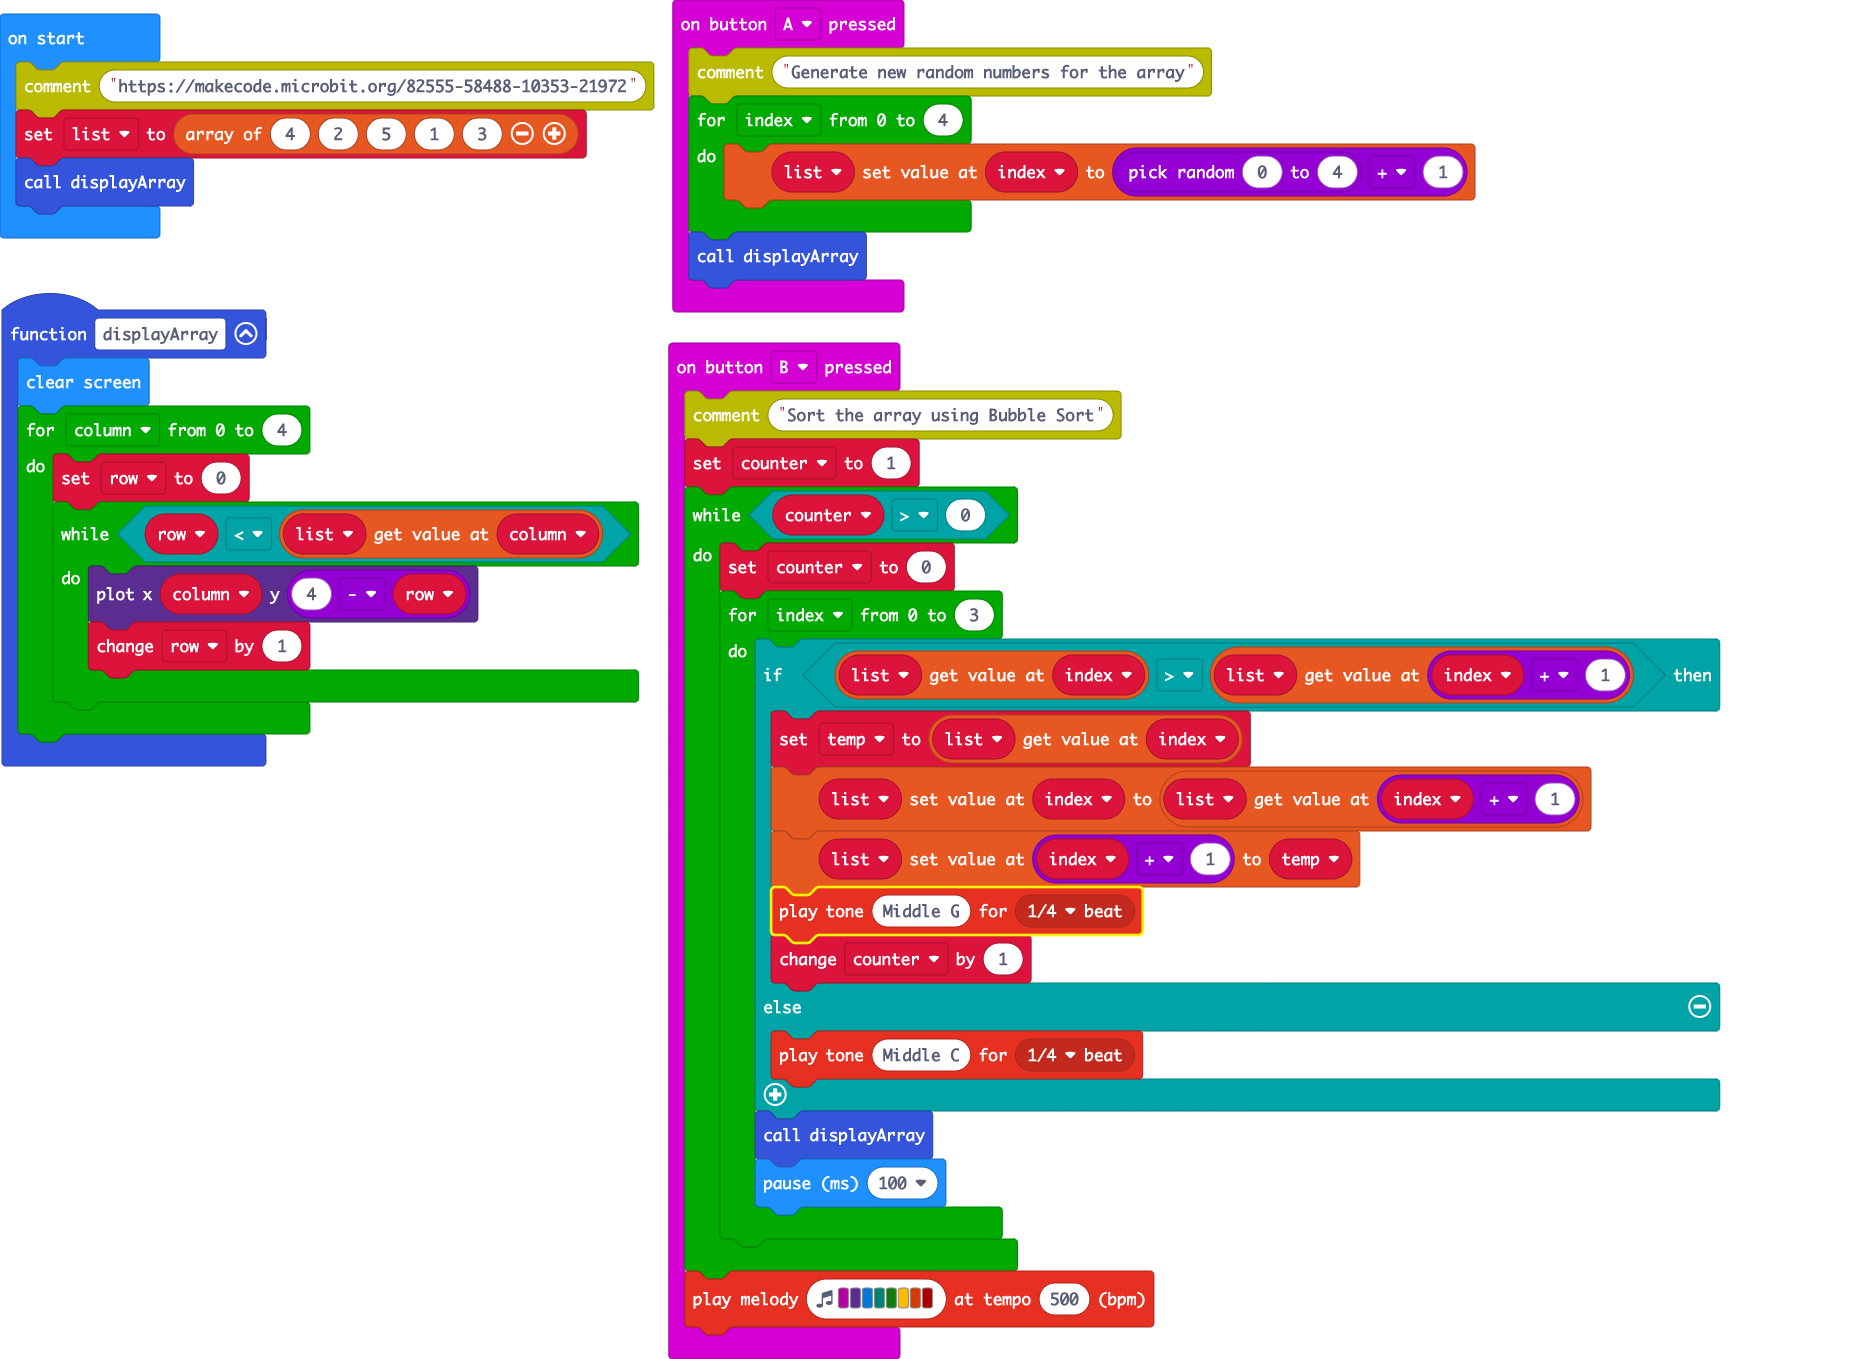
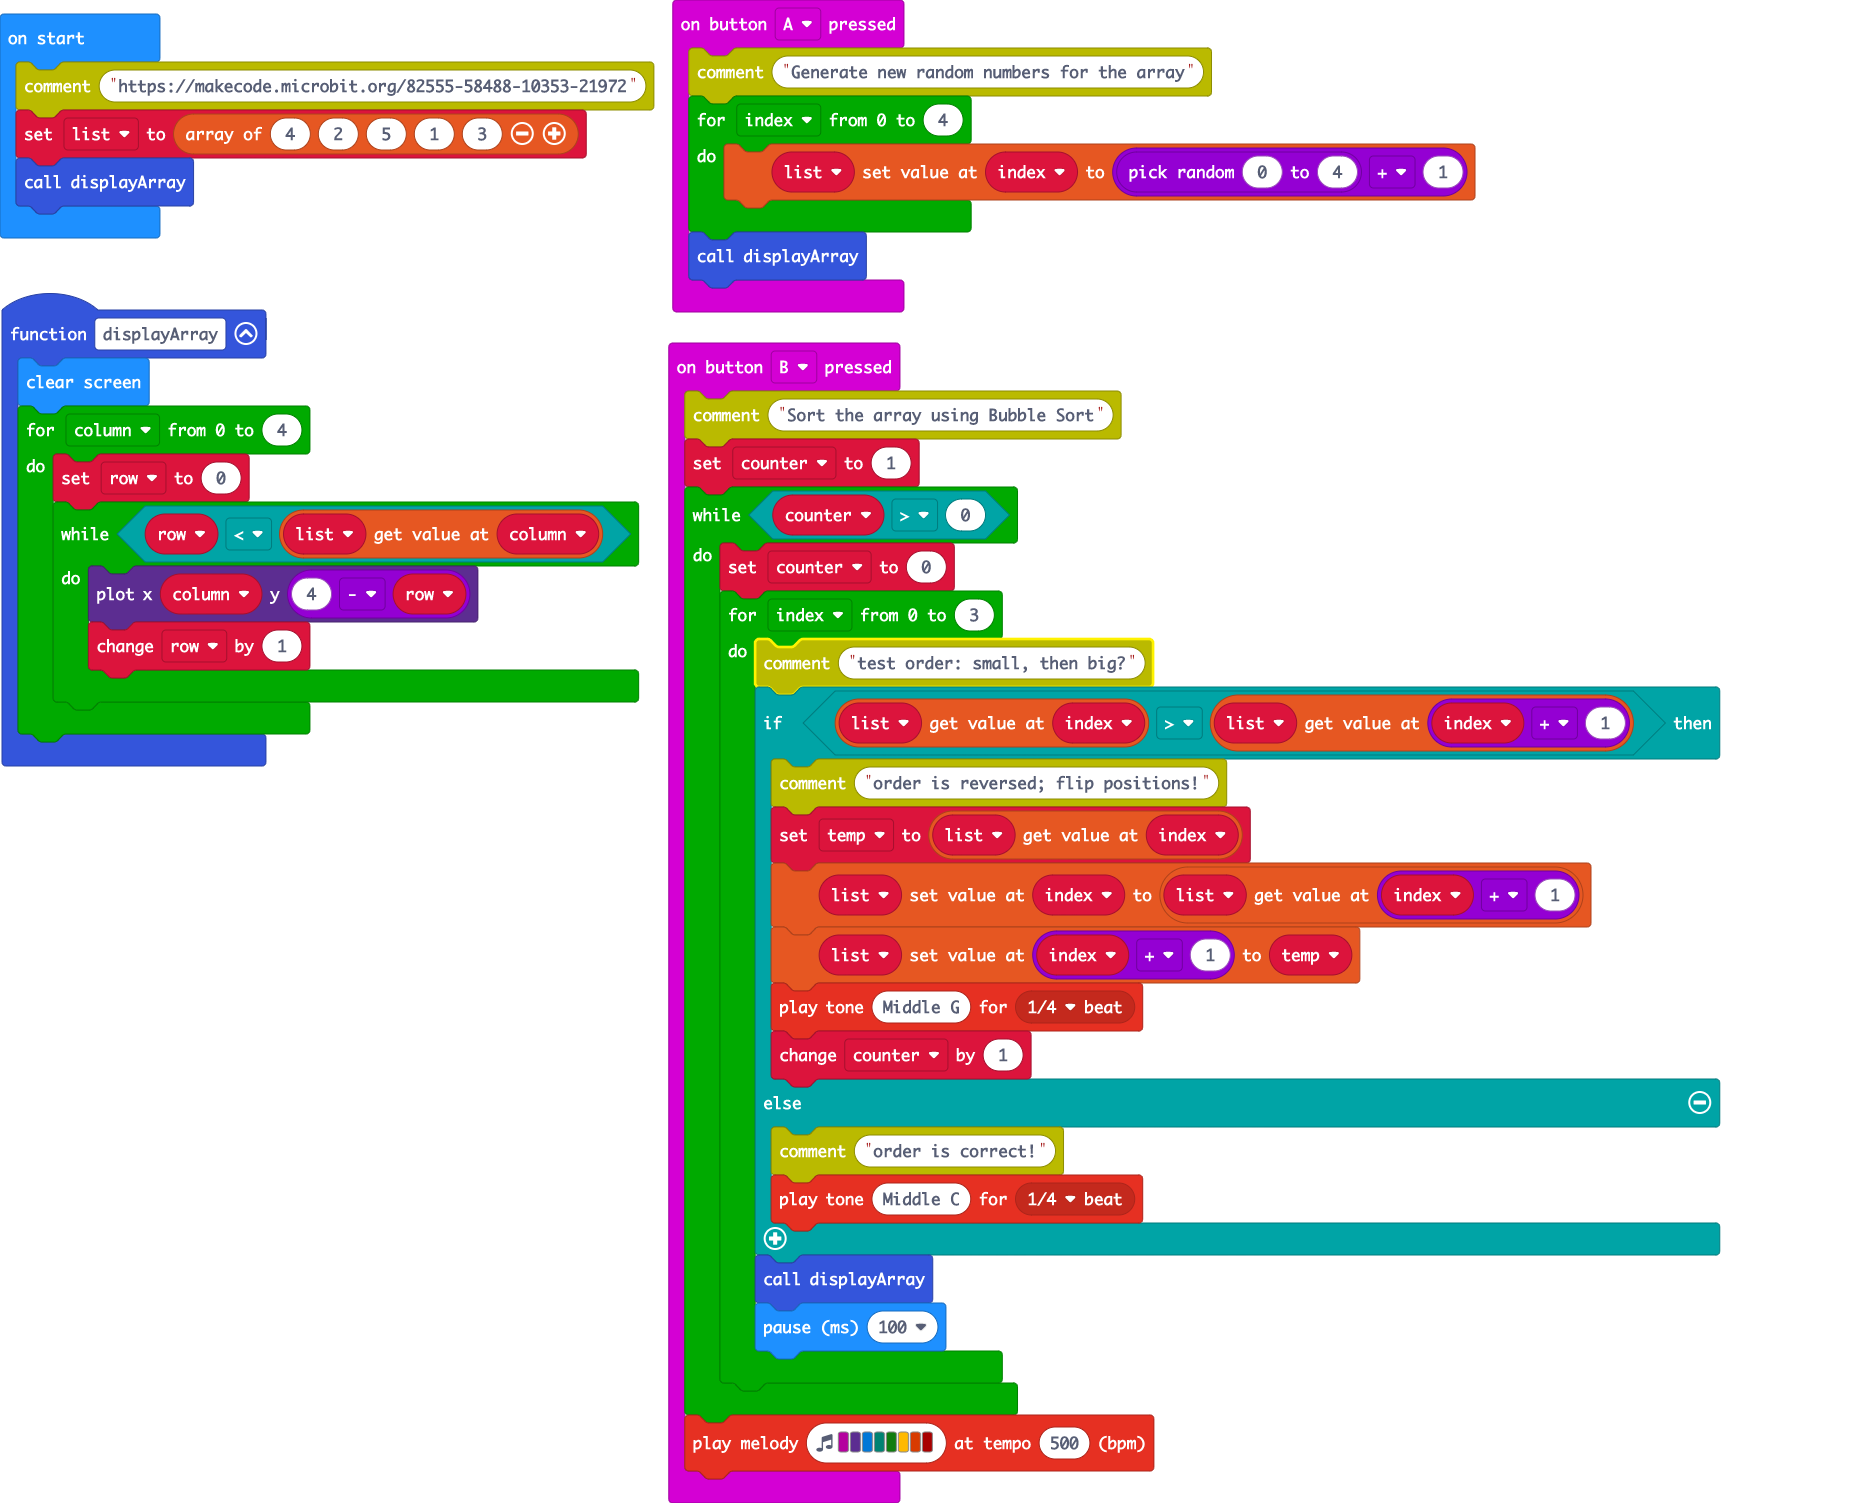
Update main.blocks, main.ts

Changed region(s): [[0.0, 0.0, 0.9275, 0.989]]

diff --git a/main.ts b/main.ts
@@ -11,13 +11,16 @@ input.onButtonPressed(Button.B, function () {
     while (counter > 0) {
         counter = 0
         for (let index = 0; index <= 3; index++) {
+            comment.comment("test order: small, then big?")
             if (list[index] > list[index + 1]) {
+                comment.comment("order is reversed; flip positions!")
                 temp = list[index]
                 list[index] = list[index + 1]
                 list[index + 1] = temp
                 music.playTone(392, music.beat(BeatFraction.Quarter))
                 counter += 1
             } else {
+                comment.comment("order is correct!")
                 music.playTone(262, music.beat(BeatFraction.Quarter))
             }
             displayArray()
